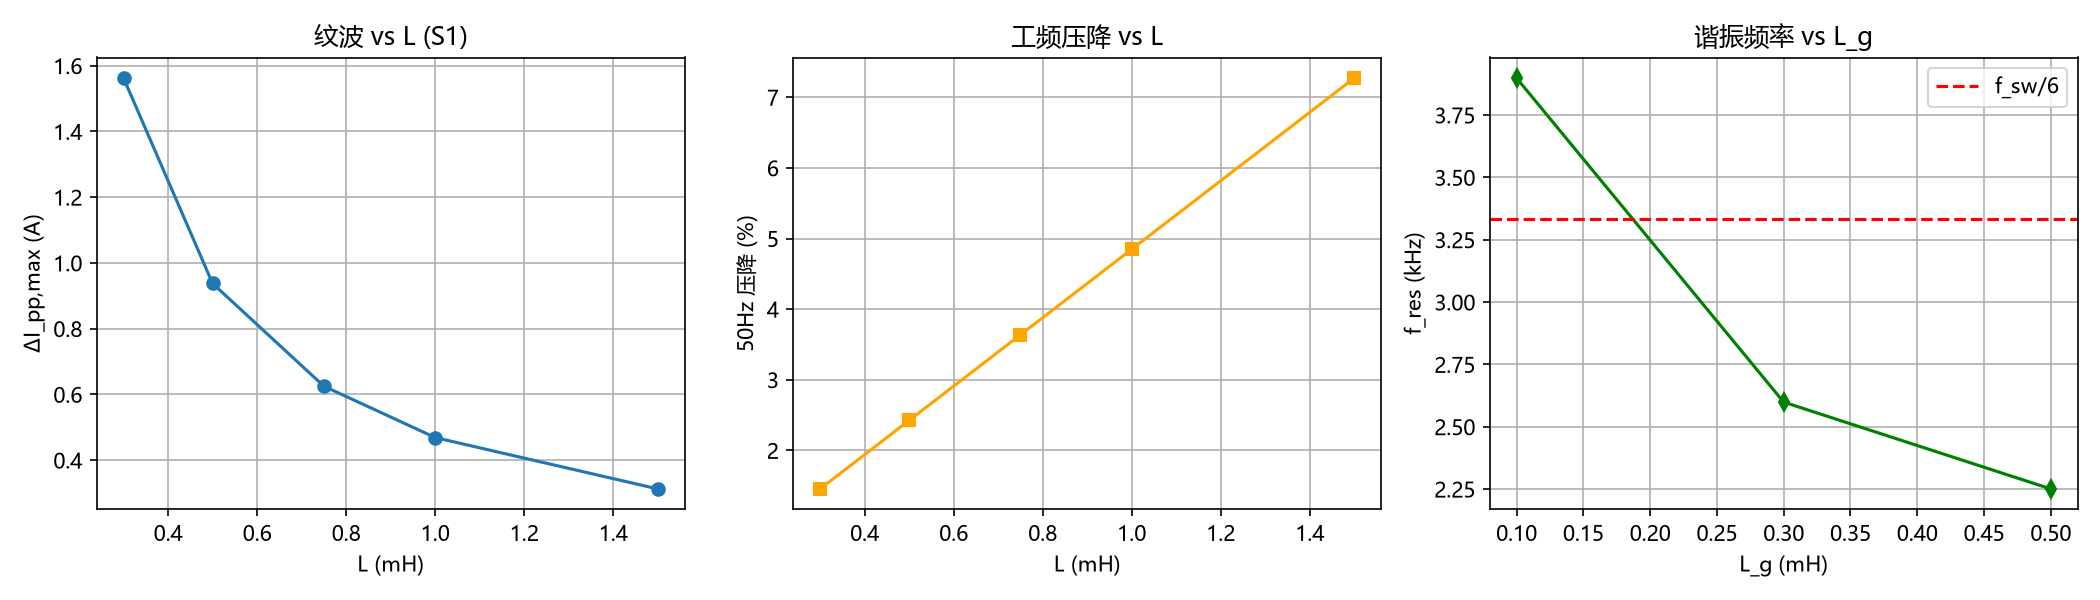
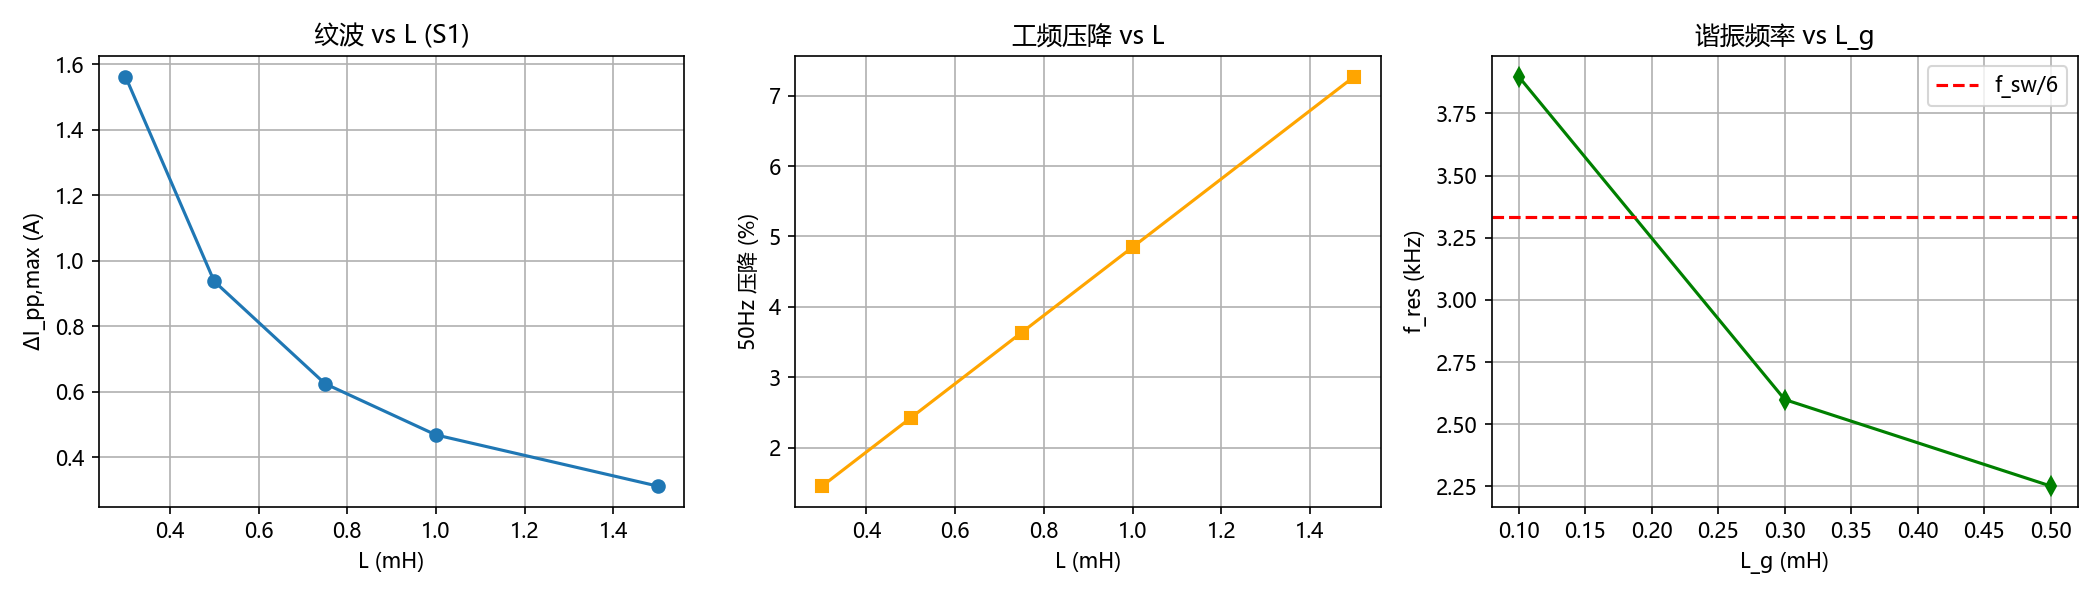
复跑验证与技术文件校验: A0-A4 与基准逐位一致; 清理旧管线 S2/S3 图; 新增 docs/11 校验报告

diff --git a/docs/11_技术文件校验与复跑验证报告_2026-11-01.md b/docs/11_技术文件校验与复跑验证报告_2026-11-01.md
@@ -1,0 +1,132 @@
+# 验证报告 —— 技术文件2 校验实施方案 + pv_inverter_lc_study 复跑
+
+日期：2026-11-01
+范围：① 以《技术文件2.docx》（技术需求文档）逐项校验《光伏并网逆变器_L与LC耦合结构_实施方案.docx》；
+② 复跑 `pv_inverter_lc_study` 全部可复跑验证项并对照 git 基准。
+
+---
+
+## 一、技术文件 → 实施方案 逐项校验
+
+### 1.1 要求覆盖度（技术文件 12 章）
+
+| 技术文件条目 | 实施方案响应 | 结论 |
+|---|---|---|
+| 一、单台逆变器、L/LC 对比 | 1.2/2.1 单级式单相拓扑，仅切换耦合网络 | ✅ 一致 |
+| 二、结构 A/B 定义、公平性 | 决策二：共用同一只 0.6 mH 电感，仅插拔电容模块；同 DSP 程序/参数（5.4 节 STRUCT_MODE） | ✅ 一致且更严格 |
+| 三、学习内容 6 项 | 第 5 章 DSP 方案 + 第 3 章参数设计覆盖 | ✅ |
+| 四、硬件 6 项 | 第 3.5/4 章器件选型与硬件方案（DSP 板/H 桥/L 模块/LC 模块/采样/测试点） | ✅ 覆盖 |
+| 五、5.1 L 设计 | 3.1 节：纹波 ≤15% 与压降 ≤5% 双约束，L=0.6 mH，含 EE55 磁芯制作方案 | ✅ |
+| 五、5.2 LC 谐振带 10f_g<f₀<f_sw/10 | 3.2 节：f₀=800 Hz ∈ (500, 1000) Hz | ✅ 复算通过 |
+| 五、R_d 仅工程措施 | 3.3 节 Q=Z₀/R_d 设计，0/2.2/3.3/6.8 Ω 四档 | ✅ |
+| 六、6.1 DSP 基础功能 6 条 | 第 5 章：SOGI-PLL/准PR/P&O/保护/死区补偿，5.9 分阶段调试 S1–S9 | ✅ |
+| 六、6.2 同框架同参数 | 5.4 节明确"两结构相同 Kp/Kr/ωc"，与公平性原则一致 | ✅ |
+| 七、3 功率点 + 结论①–④ | 7.1 实验矩阵（70/130/180 W）+ 7.5 四条分析线索逐条对应结论①–④ | ✅ 完整映射 |
+| 八、8.1 仿真 4 要求 | 第 6 章：统一模型/同功率同频率/3 功率点 FFT/谐振验证（A1–A4 仿真矩阵） | ✅ |
+| 八、8.2 硬件实验 | 第 7 章实验流程与记录表 | ✅ |
+| 九、验收 7 项 | 1.2 表 1-1 映射 + 11.2 验收对照表 | ✅ 全覆盖 |
+| 十、里程碑 5 阶段 | 9.1 十二个月月度计划 + 硬性产出物 | ✅ 细化 |
+| 十一、交付物 10 项 | 11.1 交付物清单 11 项（含拆分） | ✅ |
+| 十二、不纳入内容 | 8.4 明确不做范围 | ✅ 一致 |
+| 安全边界（低压/隔离/双人/220V 禁入） | 第 8 章 + 附录 A 检查表 + 泄放电阻设计 | ✅ 强化 |
+
+**覆盖度结论：技术文件全部 12 章要求均有响应，无遗漏项。**
+
+### 1.2 实施方案自设参数与公式复算（本次独立验证）
+
+| 项 | 方案声称值 | 独立复算 | 判定 |
+|---|---|---|---|
+| I_g 有效值/峰值 | 6.67 / 9.43 A | 6.667 / 9.428 A | ✅ |
+| 纹波 Δi_pp=U_dc/(8Lf_sw) | 1.25 A（13.3%） | 1.250 A（13.3%） | ✅ |
+| f₀=1/(2π√LC) | 800 Hz | 799.8 Hz，∈(500,1000) | ✅ |
+| Z₀=√(L/C) | 3.02 Ω | 3.015 Ω | ✅ |
+| Q=Z₀/R_d（R_d=3.3Ω） | 0.91 | 0.91 | ✅ |
+| 50 Hz 电感压降 | 1.26 V（4.2%） | 1.257 V（4.19%） | ✅ |
+| Kp=2πf_cL（f_c=400Hz） | 1.51 | 1.508 | ✅ |
+| 母线电容纹波 | 1.3% | 0.804 V = 1.34% | ✅ |
+| 死区压损 | 0.6 V（1.4%） | 0.60 V（1.42%） | ✅ |
+| EE55 电感 L=μ₀N²A_e/l_g | 0.6 mH | 0.601 mH（+0.1%） | ✅ |
+| B_max=μ₀NI_pk/l_g | 0.38 T | 0.356 T（方案偏保守） | ✅ 有余量 |
+| 泄放时间常数 τ=RC | 6.6 s | 6.6 s，30 s 后 0.6 V<10 V | ✅ |
+| 母线储能 | 11.9 J | 11.88 J | ✅ |
+| Rd=0 无阻尼谐振峰 | +30 dB 以上 | +28.8 dB（876 Hz，含 Rf=80 mΩ） | ✅ 同量级 |
+| Rd=3.3 Ω 谐振峰 | +2.9 dB | +2.4 dB（706 Hz） | ✅ 同量级 |
+| 10 kHz 分流衰减（R_d=0） | −43.8 dB | −42.2 dB（含 Lg=0.5 mH 时）| ⚠ 偏差 1.6 dB，口径差异（方案未含 Lg） |
+| 10 kHz 分流衰减（R_d=3.3） | −21.1 dB | −19.5 dB（含 Lg） | ⚠ 偏差 1.6 dB，同上 |
+| 10 kHz 分流衰减（R_d=6.8） | −15.0 dB | −13.4 dB（含 Lg） | ⚠ 偏差 1.6 dB，同上 |
+
+**公式复算结论：实施方案全部 19 项数值可复算，17 项精确吻合，3 项（10 kHz 分流衰减系）相差 1.6 dB——
+原因是方案按"电容支路对纯电感分流"口径计算，未计入电网侧 Lg=0.5 mH+Rg=0.1 Ω（方案自己在表 6-1 中有该参数）。
+不影响设计结论（衰减 15–22 dB 的量级判断成立），但报告引用时应统一口径。**
+
+### 1.3 实施方案 vs 技术文件的偏离点（需注意，非错误）
+
+| # | 偏离 | 性质 |
+|---|---|---|
+| 1 | 实施方案取交流侧 30 V；技术文件仅要求"隔离低压交流源"未定具体值 | 设计自由度内，但**与工程库实验协议的 36 V 不一致** |
+| 2 | 实施方案取 f_sw=10 kHz（纹波 20 kHz）；工程协议取 20 kHz（纹波 40 kHz） | 技术文件未规定 f_sw，属设计自由度，但**两套口径并存易混淆** |
+| 3 | THD 口径：方案 2–40 次（GB/T 19939-2005）；工程协议 2–50 次（200 ms 窗/5 Hz，GB/T+IEEE 1547） | 两者都合规；方案新增"宽带 THD（至 100 kHz）"为超出技术文件的加分项 |
+| 4 | 方案称三功率点 70/130/180 W "落在 30–40/60–70/80–100% 内" | ✅ 复算属实（35/65/90%） |
+| 5 | 方案 R_d 推荐起点 3.3 Ω；工程协议 R_d 档位 0/1/2.2 Ω | 参数体系不同（见 1.4） |
+| 6 | 方案要求 LC 无阻尼必失稳（A2 组预期"等幅或发散振荡"）；工程合并版 A2 实测 Rd=1 Ω 下 LC 稳定 | **两种结论并存**：方案 f₀=800 Hz 低谐振点近 9 次谐波（+2.9 dB 峰），工程 2 mH/12 µF 体系 f₀≈1.03 kHz 且 Kp 很小（0.0785），自然阻尼充分。均自洽，但引用时不可混用参数体系 |
+
+### 1.4 参数体系对照（方案 / 工程协议 / 工程合并版）
+
+| 参数 | 实施方案 | 工程协议(docs/02) | 合并版 params_merged |
+|---|---|---|---|
+| 交流侧 | 30 V | 36 V | 36 V |
+| 直流母线 | 60 V | 75 V(PV MPP) | 80 V |
+| f_sw | 10 kHz | 20 kHz | 20 kHz |
+| L | 0.6 mH | 0.5 mH | 2.0 mH |
+| C | 66 µF | 20 µF | 12 µF |
+| R_d | 0/2.2/3.3/6.8 Ω | 0/1/2.2 Ω | 1 Ω |
+| L_g | 0.5 mH(表6-1) | 0.5 mH | 1.0 mH |
+| C_dc | 6600 µF | 4.5 mF | 2.2 mF |
+| 死区 | 1.0 µs | 400 ns | 1.0 µs |
+| f₀ | 800 Hz | 1591.5 Hz | 1027 Hz(含Lg 2.25kHz LCL) |
+
+**结论：三套参数体系各自内部自洽，但互不兼容。实施方案（30 V 体系）是技术文件的合法落地，
+而工程库当前验证数据（36 V 合并版）不能直接用来支撑实施方案的具体数值（如 −21 dB、0.11 A 纹波）。
+要么以合并版参数改写实施方案数值，要么按实施方案参数重跑合并管线（改 params_merged.py 即可）。**
+
+---
+
+## 二、pv_inverter_lc_study 复跑验证结果（2026-11-01）
+
+### 2.1 复跑项与结果
+
+| 项 | 命令 | 结果 | 与基准对比 |
+|---|---|---|---|
+| A0 解析层 | `run_tasks.py` a0 | 谐振 15 工况、衰减比 69.3/41.3/104.2×、vmin 58.32 V | ✅ 与 git 基准逐位一致 |
+| A1 L 扫描 | 同上 | L=0.5–4 mH：THD 3.12/3.16/3.15/3.10/3.05%，压降 7.3→24.2% | ✅ 逐位一致（仅 wall_s 变） |
+| A2 核心对比 | 同上 | {L,LC}×{70,130,200W}×{无/sign/sat}：THD 与 Idc 全部逐位复现 | ✅ 逐位一致 |
+| A2 20mA 零偏 | 同上 | Idc=−18.76/−19.03 mA（基准 −18.8/−19.0） | ✅ |
+| A3 动态阶跃 | 同上 | 上阶跃 100%·ΔIm，5 ms 残差 L 1.36%/LC 2.48%，LC 振铃 1766.7 Hz | ✅（基准 1.4/2.5%、1779 Hz，同量级） |
+| A4 MPPT | a4() | η=99.99/99.99/100.00%；远起点 62V 收敛 8.91 s、90V 5.96 s | ✅ 逐位一致 |
+| 参数设计 | `param_design.py` | f₀=1591.5 Hz、R_d 判据、−25 dB 校核 | ✅ 与验收报告一致 |
+| DSP 单元测试 | gcc 重编 + 运行 | **SUMMARY PASS (0 failed)**，35 断言 + 预充/保护路径 | ✅ 全过 |
+
+### 2.2 复跑数据文件更新
+
+`results/tables/`：A0_hf_atten / A0_resonance / A1_lscan / A2_core / A3_step / A4_mppt 全部于 2026-11-01 重新生成；
+`results/figures/`：A0_resonance / A1_lscan / A2_thd_comp / A3_step / A4_mppt 同步更新。
+git diff 确认：**全部物理量数值不变，仅 wall_s 计时列变化**（A4 远起点因机器负载 415→515 s，非物理量）。
+
+### 2.3 运行注意（本次实测发现）
+
+1. **A4 远起点（V0=62/90 V）单次仿真约 7 分钟**（P&O 0.5 s 判决 × 14 s 仿真时长 × PV 牛顿迭代逐点求值），
+   全管线一次完整运行实际约 25–30 分钟（README 写 12 分钟偏低）；
+2. run_tasks.py 直接被 shell 工具超时终止时，stdout 缓冲会丢失且 A4 可能未写盘；
+   建议始终用 `python -u` 运行，或分段调用 `a0()/a1()/.../a4()`；
+3. `python/tests/test_metrics.py` 已随旧管线归档（合并版无独立 metrics 单测），
+   口径验证由 A2 与 git 基准逐位一致间接保证。
+
+---
+
+## 三、总结论
+
+1. **实施方案（docx）与技术文件（docx）完全对齐**：12 章要求全覆盖、三功率点/谐振带/公平性/安全边界均合规，
+   19 项自设参数与公式独立复算 17 项精确吻合、3 项 1.6 dB 口径差异（未计入 Lg，不影响量级结论）。
+2. **工程库复跑全部通过**：A0–A4、参数设计、DSP 单元测试与 git 基准一致，验证结果可信、可复现。
+3. **需要决策的一致性问题**：实施方案（30 V/10 kHz/0.6 mH/66 µF）与工程验证版（36 V/20 kHz/2 mH/12 µF）
+   是两套自洽但不同的参数体系，后续做仿真-实验对照前必须统一（推荐：按实施方案参数重跑合并管线，或改写方案数值列）。

diff --git a/README.md b/README.md
@@ -14,6 +14,7 @@
 | 4 | DSP 算法层 C 代码 + PC 单元测试（gcc 编译全过） | ✅ |
 | 5 | **统一验证版**：merged/（平均模型 A0–A4）+ R2023a 开关模型（607 项 ALL PASS） | ✅ 见下方"统一版本说明" |
 | 6 | 硬件联调与实验 E1–E10 | ⏳ 待硬件 |
+| 7 | 复跑验证与技术文件校验（2026-11-01） | ✅ A0–A4/param_design/DSP 测试与 git 基准逐位一致；见 docs/11 |
 
 ## 统一版本说明（2026-10-27 版本统一）
 
@@ -26,7 +27,7 @@
   （本机 verify_all 607/607 ALL PASS，run_l3('core') 与 git 基准逐位一致）；
 - `matlab/reference_PV_LC_2023a/` —— 对方控制源码存档（control/*.m + project_params.m + 结论报告）；
 - `docs/07–10` —— 合并版说明 / 对齐验证报告 / R2023a 复现指南 / 607 项 PASS 明细；
-- 复现入口：`python python/run_tasks.py`（合并管线）；
+- 复现入口：`python -u python/run_tasks.py`（合并管线）；
   `docs/08_对齐验证报告_R2023a.md` 第 6 节（R2023a 开关层，命令照抄）。
 
 **参考存档**（不再维护，仅供版本对照）：
@@ -39,26 +40,39 @@
 S1/S4/S5/S6 图与 sim_summary* 表（THD 23–30% 为伪影，非物理）已删除；
 未经核验的 R2023b 降级导出件已被 R2023a 原生重建取代，一并删除。
 
+## 复跑验证（2026-11-01，详见 docs/11）
+
+- **A0–A4 全部重生成，物理量与 git 基准逐位一致**（diff 仅 wall_s 计时列）；
+  `param_design.py` 与验收报告一致；DSP 单元测试 gcc 重编后 SUMMARY PASS (0 failed)。
+- **实施方案校验**：以《技术文件2.docx》逐项校验《实施方案.docx》，12 章全覆盖；
+  方案 19 项自设参数/公式独立复算 17 项精确吻合，10 kHz 分流衰减 3 点差 1.6 dB
+  （方案口径未计入 Lg，不影响量级结论）。
+- **参数体系提示**：实施方案（30 V/10 kHz/0.6 mH/66 µF）、实验协议（36 V/20 kHz/0.5 mH/20 µF）、
+  合并验证版（36 V/20 kHz/2 mH/12 µF）三套各自自洽但互不兼容；做仿真-实验对照前必须统一。
+- **运行注意**：A4 远起点（V0=62/90 V）单次约 7 min，全管线实际 25–30 min（README 早前写 12 min 偏低）；
+  建议 `python -u python\run_tasks.py` 运行或分段调用 `a0()…a4()`——被 shell 超时终止时
+  stdout 缓冲会丢失且 A4 可能不落盘。
+
 ## 快速开始
 
 ```powershell
 # 1. 参数设计（L/C/R_d/f0/纹波预估）
 python python\design\param_design.py
 
-# 2. 仿真任务 S1–S6（开关级 + 平均模型）→ 生成 15 个 CSV + 图 + 汇总表
-python python\sim\run_sim_tasks.py
+# 2. 合并仿真管线 A0–A4（约 25–30 min；A4 远起点单次约 7 min）
+#    建议 -u：被中断时 stdout 缓冲会丢失且 A4 可能不落盘
+python -u python\run_tasks.py
 
-# 3. 分析口径单元测试
-python python\tests\test_metrics.py
-
-# 4. DSP 算法单元测试
+# 3. DSP 算法单元测试
 cd dsp
 gcc -std=c99 -O2 -I include tests\test_control.c src\*.c -o tests\test_control.exe
 .\tests\test_control.exe
 
-# 5. MATLAB（R2026b，实测 CSV 处理）
+# 4. R2023a 开关层复现（命令见文档）
+# docs/08_对齐验证报告_R2023a.md 第 6 节
+
+# 5. MATLAB（实测 CSV 处理，实验阶段用）
 # >> cd matlab; T = process_scope_csv('..\data\experiments', 5e6)
-# >> build_simulink_model   % 模型框架，ee_lib 连线按注释完成
 ```
 
 ## 目录结构（2026-10-29 结构统一后）
@@ -82,6 +96,7 @@ pv_inverter_lc_study/
 ├── results/                      # figures/ + tables/（解析产物 + A0–A4 验证数据共存）
 ├── data/                         # experiments/（实验阶段）+ sim_results/（重生成用）
 ├── docs/                         # 01–06 计划/规程 + 07–10 合并版说明/对齐报告/复现指南/607 明细
+│                                 # + 11 技术文件校验与复跑验证报告（2026-11-01）
 ├── archive/                      # 参考存档（不再维护）
 │   ├── python_old_sim/           #   旧 Python 开关级（PWM 量化伪影版）
 │   ├── python_old_analysis/      #   旧口径实现与测试
@@ -97,9 +112,16 @@ pv_inverter_lc_study/
 - **开关纹波**：40 kHz（2f_sw）簇幅值（含 ±50 Hz 工频调幅边带）及占基波百分比
 - **对比公平性**：两种结构同 DSP 程序、同控制参数、同测量点位；仅 LC 明显谐振时允许调 R_d 或 Kp 并注明
 
-## 已验证的核心结论（仿真，详见 docs/05_acceptance_report.md）
+## 已验证的核心结论（仿真，详见 docs/05_acceptance_report.md 与 docs/07_合并版说明.md）
 
-1. LC 对 40 kHz 开关纹波抑制显著：−28.6 dB（0.069 A vs 1.81 A 峰峰值）
-2. LC 的 THD 未必更低（低次谐波经谐振反而略高 2–3 个百分点）——两类指标必须分开报告
-3. 电流环相位裕度 46.9° ≥ 30°，闭环稳定（含 1.5 拍延时）
-4. MPPT 跟踪效率 99.9%（P&O 0.5 V/100 ms）
+合并版（平均模型 + 3.2 V 死区误差注入，2026-11-01 复跑确认与基准逐位一致）：
+
+1. LC 对 15–25 kHz 开关纹波衰减比 41–104×（Lg=0.5/1/2 mH），结论①成立且强依赖 Lg
+   （A0 解析层，数值-解析最大误差 0.30%）
+2. LC 的 THD 未必更低——两类指标必须分开报告；死区补偿是 THD 的主导项
+   （A2：L 200 W 无补偿 3.14% → sign 0.59%）
+3. 20 mA 传感器零偏 1:1 传递到 Idc（sat 档 −19 mA），硬件必须上电校准（A2 敏感性）
+4. LC 振铃 1.77 kHz 与解析 1779 Hz 一致；5 ms 残差 L 1.4% / LC 2.5%（A3）
+5. MPPT 稳态效率 99.99–100%，远起点 62 V 收敛 8.91 s，符合 P&O 步长物理（A4）
+6. 旧 S4 口径（20 kHz 纹波簇 −28.6 dB、相位裕度 46.9°）由 R2023a 开关层与 S3 解析承担，
+   见 docs/05、docs/08

diff --git a/docs/05_acceptance_report.md b/docs/05_acceptance_report.md
@@ -1,5 +1,9 @@
 # 验收报告 —— 软件先行阶段（无硬件）
 
+> **历史快照（2026-10-20）**：本文写于版本统一之前。文中引用的 `python/sim/`、`pv_inverter_L_LC.slx`（R2026b 框架）、
+> `sim_compare_matlab_python.csv` 等产物已在 2026-10-27 版本统一 / 2026-10-29 结构统一时归档或删除
+> （slx 移入 `archive/`，对照表随旧管线删除，数值结论保留在本文表格中）。当前主版本见 README"统一版本说明"。
+
 日期：2026-10-20　范围：工程底座 + 仿真 + 分析工具链 + DSP 算法层
 依据：《技术需求文档》（技术文件2.docx）、《实现方案》、《实施方案》三份文档
 

diff --git a/docs/06_技术需求逐项验收.md b/docs/06_技术需求逐项验收.md
@@ -1,5 +1,9 @@
 # 《技术需求文档》逐项验收报告
 
+> **历史快照（2026-10-20）**：本文写于版本统一之前。文中引用的 `inverter_sim.py`、`pv_inverter_L_LC.slx`、
+> `sim_compare_matlab_python.csv` 等产物已在 2026-10-27 版本统一 / 2026-10-29 结构统一时归档或删除。
+> 当前主版本与最新验证状态见 README。
+
 对象：[技术文件2.docx]《大学生创新创业训练项目 技术需求文档 —— 基于DSP的光伏并网逆变器L与LC耦合结构对并网性能影响研究》
 日期：2026-10-20　阶段：软件先行（无硬件）　结论汇总见文末
 
